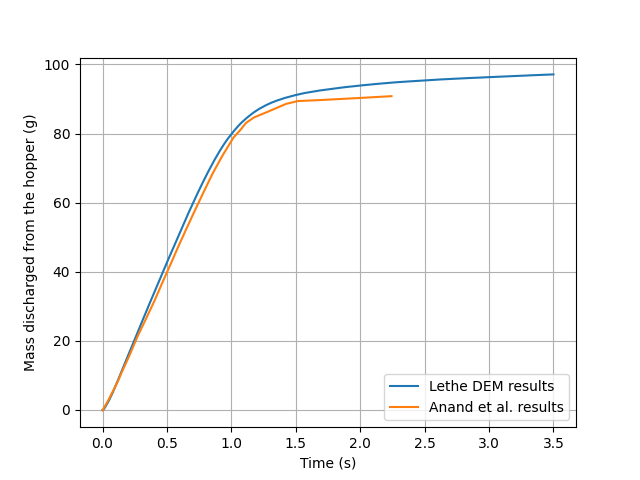
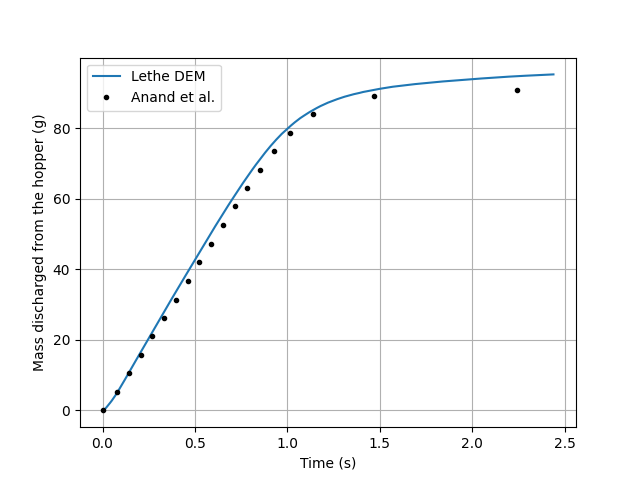
Modify example & clean up PyVista tool
Add dummy file put output folder

Change data

diff --git a/contrib/postprocessing/Lethe_pyvista_tools.py b/contrib/postprocessing/Lethe_pyvista_tools.py
@@ -7,20 +7,19 @@ import numpy as np
 import pandas as pd
 import pyvista as pv
 from tqdm import tqdm
-from multiprocessing import Pool, cpu_count
 
 #Define class:
 class Lethe_pyvista_tools():
 
     def __init__(self, case_path, prm_file_name):
-        
+
         self.path_case = case_path
         self.prm_file = prm_file_name
-    
+
         #Read .prm file to dictionary
         #Create dictionary
         self.prm_dict = {}
-        
+
 
         #Use .prm path as argument
         with open(self.path_case + '/' + self.prm_file) as file:
@@ -54,19 +53,17 @@ class Lethe_pyvista_tools():
                     else:
                         #Otherwise, attribute the set name
                         self.prm_dict[clean_line[0]] = clean_line[1]
-        
+
             print(f'Successfully constructed. To see the .prm dictionary, print($NAME.prm_dict)')
         #Define path where vtu files are
         self.path_output = self.path_case + self.prm_dict['output path'].replace('.', '')
 
     def reader(self, i = 0):
         exec(f'self.df_{i} = pv.read(f\'{self.path_output}/{self.list_vtu[i]}\')')
-        #df = pv.read(f'{self.path_output}/{self.list_vtu[i]}')
-        #return df
 
     #Read fluid information from vtu files
     def read_lethe_to_pyvista(self, pvd_name, first = 0, last = None, interval = 1):
-        
+
         #Read name of files in .pvd file
         files = pd.read_csv(f'{self.path_output}{pvd_name}',sep='"',skiprows=6, usecols=[1, 5], names = ['time', 'vtu'])
         #clean data from NaN's
@@ -90,36 +87,7 @@ class Lethe_pyvista_tools():
         pbar = tqdm(total = N_vtu, desc="Reading VTU files")
         for i in range(len(self.list_vtu)):
             #Read DF from VTU files
-            self.reader(i)#exec(f'self.df_{i} = pv.read(f\'{self.path_output}/{self.list_vtu[i]}\')')
+            self.reader(i)
             pbar.update(1)
-        
+
         print(f'Written .df_timestep from timestep = 0 to timestep = {len(self.list_vtu)-1}')
-    
-    def read_lethe_to_pyvista_parallel(self, pvd_name, first = 0, last = None, interval = 1, processors = cpu_count()):
-        #Read name of files in .pvd file
-        files = pd.read_csv(f'{self.path_output}{pvd_name}',sep='"',skiprows=6, usecols=[1, 5], names = ['time', 'vtu'])
-        #clean data from NaN's
-        files = files.dropna()
-        #Create a list of time-steps
-        self.time_list = files['time'].tolist()
-        #Create a list of all files' names
-        self.list_vtu = files['vtu'].tolist()
-        #Format files' names
-        self.list_vtu = [i.replace('.pvtu', '.0000.vtu') for i in self.list_vtu]
-
-        if last == None:
-            self.list_vtu = self.list_vtu[first::interval]
-            self.time_list = self.time_list[first::interval]
-        else:
-            self.list_vtu = self.list_vtu[first:last:interval]
-            self.time_list = self.time_list[first:last:interval]
-
-        #Read VTU data
-        N_vtu = len(self.list_vtu)
-        pbar = tqdm(N_vtu, desc="Reading VTU files")
-
-        p = Pool(processes=processors)
-        numbers = np.arange(len(self.list_vtu)).tolist()
-        p.map(self.reader, numbers)
-        
-        

diff --git a/examples/dem/3d-rectangular-hopper/hopper_post_processing.py b/examples/dem/3d-rectangular-hopper/hopper_post_processing.py
@@ -12,9 +12,11 @@ Date: May 5th, 2022
 import numpy as np
 import pandas as pd
 import matplotlib.pyplot as plt
-from Lethe_pyvista_tools import *
 
 import sys
+sys.path.append("../../../contrib/postprocessing/")
+from Lethe_pyvista_tools import *
+
 #############################################################################
 
 #############################################################################
@@ -104,8 +106,6 @@ paper_data = pd.read_csv('paper_data.csv', ',')
 # Find range to calculate rate (this part is kind of headcoded)
 p0 = start + int(0.25/(particle.prm_dict['output frequency'] * particle.prm_dict['time step']))
 p1 = p0 +    int(0.5 /(particle.prm_dict['output frequency'] * particle.prm_dict['time step']))
-#plt.plot(particle.time_list[p0] - particle.time_list[start], mass_discharge[p0] * 1000 / correction_factor, '*')
-#plt.plot(particle.time_list[p1] - particle.time_list[start], mass_discharge[p1] * 1000 / correction_factor, '*')
 
 # Calculate mass flow rate
 p = np.polyfit([value - particle.time_list[p0] for value in particle.time_list[p0:p1]],
@@ -113,8 +113,8 @@ p = np.polyfit([value - particle.time_list[p0] for value in particle.time_list[p
 print(f'Mass flow rate is : {p[0]:.2f} g/s.')
 
 # Plot results
-plt.plot(data['time'][start:] - data['time'][start], data['mass_discharge'][start:] * 1000 / correction_factor, label="Lethe DEM results")
-plt.plot(paper_data['time'], paper_data['discharge'], label="Anand et al. results")
+plt.plot(data['time'][start:] - data['time'][start], data['mass_discharge'][start:] * 1000 / correction_factor, label="Lethe DEM")
+plt.plot(paper_data['time'], paper_data['discharge'], '.k', label="Anand et al.")
 plt.xlabel('Time (s)')
 plt.ylabel('Mass discharged from the hopper (g)')
 plt.legend()

diff --git a/doc/source/examples/dem/dem.rst b/doc/source/examples/dem/dem.rst
@@ -12,11 +12,11 @@ In `Example 4 <./rotating-drum-with-post-processing/rotating-drum-with-post-proc
 
 In `Example 5 <./rotation-of-box/rotation-of-box.html>`_ (rotation of box), we simulate the dynamics of particles in a rotating box. The key difference between `Example 3 <./rotating-drum/rotating-drum.html>`_ and `Example 5 <./rotation-of-box/rotation-of-box.html>`_ is that `Example 3 <./rotating-drum/rotating-drum.html>`_ uses a ``rotational`` boundary condition to simulate the rotating drum, while `Example 5 <./rotation-of-box/rotation-of-box.html>`_ uses a rotation of triangulation (``grid motion``). 
 
-In `Example 8 <./3d-small-scale-rotating-drum/3d-small-scale-rotating-drum.html>`_ (small-scale rotating drum (3D)), we simulate the behavior of particles in a small scale rotating drum subjected to a rotational angular velocity over the cylinder.
+In `Example 6 <./3d-small-scale-rotating-drum/3d-small-scale-rotating-drum.html>`_ (small-scale rotating drum (3D)), we simulate the behavior of particles in a small scale rotating drum subjected to a rotational angular velocity over the cylinder.
 
-In `Example 6 <./silo/silo.html>`_ (silo), we simulate the filling (using a ``floating wall``) and discharge of particles in a wedge-shaped silo.
+In `Example 7 <./silo/silo.html>`_ (silo), we simulate the filling (using a ``floating wall``) and discharge of particles in a wedge-shaped silo.
 
-In `Example 7 <./rectangular-hopper/rectangular-hopper.html>`_ (rectangular hopper), we simulate the discharge of particles in a rectangular hopper and we post-processed results with PyVista <https://docs.pyvista.org/>`_ to get the mass discharge rate.
+In `Example 8 <./rectangular-hopper/rectangular-hopper.html>`_ (rectangular hopper), we simulate the discharge of particles in a rectangular hopper and we post-processed results with PyVista <https://docs.pyvista.org/>`_ to get the mass discharge rate.
 
 In `Example 9 <./granular-mixer/granular-mixer.html>`_ (granular mixer) we simulate mixing of two particle types using a pitched-blade impeller.
 
